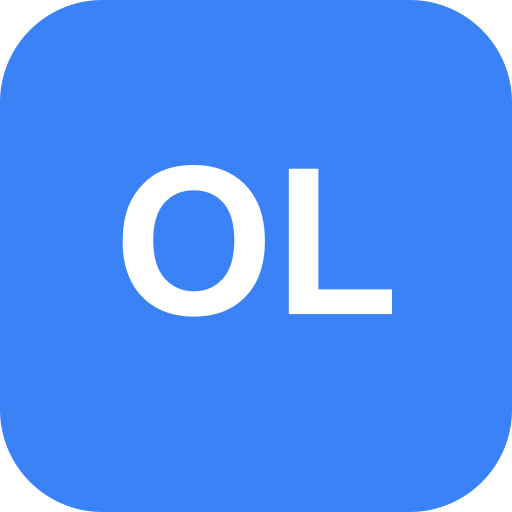
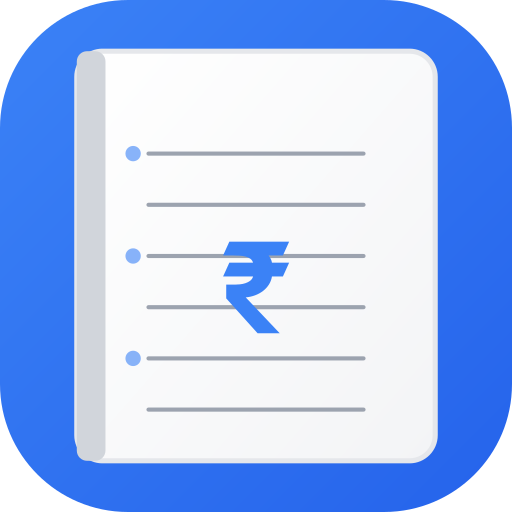
Registeration Issue Fixed

diff --git a/public/sw.js b/public/sw.js
@@ -1,1 +1,1 @@
-if(!self.define){let e,s={};const t=(t,n)=>(t=new URL(t+".js",n).href,s[t]||new Promise(s=>{if("document"in self){const e=document.createElement("script");e.src=t,e.onload=s,document.head.appendChild(e)}else e=t,importScripts(t),s()}).then(()=>{let e=s[t];if(!e)throw new Error(`Module ${t} didn’t register its module`);return e}));self.define=(n,i)=>{const c=e||("document"in self?document.currentScript.src:"")||location.href;if(s[c])return;let a={};const r=e=>t(e,c),b={module:{uri:c},exports:a,require:r};s[c]=Promise.all(n.map(e=>b[e]||r(e))).then(e=>(i(...e),a))}}define(["./workbox-cb477421"],function(e){"use strict";importScripts(),self.skipWaiting(),e.clientsClaim(),e.precacheAndRoute([{url:"/_next/static/SAT_WU-kYaJ-KnYDsm0Db/_buildManifest.js",revision:"9363572769837de22e40f096e0cebed4"},{url:"/_next/static/SAT_WU-kYaJ-KnYDsm0Db/_ssgManifest.js",revision:"b6652df95db52feb4daf4eca35380933"},{url:"/_next/static/chunks/242-dce0abdbf2aea028.js",revision:"dce0abdbf2aea028"},{url:"/_next/static/chunks/3-6325ca9d4e4db34a.js",revision:"6325ca9d4e4db34a"},{url:"/_next/static/chunks/336-276d166d8c18222b.js",revision:"276d166d8c18222b"},{url:"/_next/static/chunks/435-29b99d16889c8517.js",revision:"29b99d16889c8517"},{url:"/_next/static/chunks/4bd1b696-01b4a2ffa8bac205.js",revision:"01b4a2ffa8bac205"},{url:"/_next/static/chunks/50-098a305b7968b2ca.js",revision:"098a305b7968b2ca"},{url:"/_next/static/chunks/500-538c95708a3502e8.js",revision:"538c95708a3502e8"},{url:"/_next/static/chunks/538-880c66d8be1ab218.js",revision:"880c66d8be1ab218"},{url:"/_next/static/chunks/572-efb7cc541d876a47.js",revision:"efb7cc541d876a47"},{url:"/_next/static/chunks/794-643f38030c17f441.js",revision:"643f38030c17f441"},{url:"/_next/static/chunks/899.9de990650a7ba81f.js",revision:"9de990650a7ba81f"},{url:"/_next/static/chunks/921-6d58c88bcb5ef5bf.js",revision:"6d58c88bcb5ef5bf"},{url:"/_next/static/chunks/966.83c76036c0a8ff77.js",revision:"83c76036c0a8ff77"},{url:"/_next/static/chunks/972-6e6986a9fe1a8dc2.js",revision:"6e6986a9fe1a8dc2"},{url:"/_next/static/chunks/app/_global-error/page-400d3f83b07107ed.js",revision:"400d3f83b07107ed"},{url:"/_next/static/chunks/app/_not-found/page-4d01524aee87c0f8.js",revision:"4d01524aee87c0f8"},{url:"/_next/static/chunks/app/api/auth/%5B...nextauth%5D/route-400d3f83b07107ed.js",revision:"400d3f83b07107ed"},{url:"/_next/static/chunks/app/budget/%5Bmonth%5D/page-d1b5701ba0e30078.js",revision:"d1b5701ba0e30078"},{url:"/_next/static/chunks/app/budget/page-400d3f83b07107ed.js",revision:"400d3f83b07107ed"},{url:"/_next/static/chunks/app/invite/%5Btoken%5D/page-f07c38f1007d33ee.js",revision:"f07c38f1007d33ee"},{url:"/_next/static/chunks/app/layout-350b017e358a75c0.js",revision:"350b017e358a75c0"},{url:"/_next/static/chunks/app/login/page-919eade82296405b.js",revision:"919eade82296405b"},{url:"/_next/static/chunks/app/page-ff05113b439023f4.js",revision:"ff05113b439023f4"},{url:"/_next/static/chunks/app/register/page-4ec07f4b7f11f6d2.js",revision:"4ec07f4b7f11f6d2"},{url:"/_next/static/chunks/app/settings/page-3e49641a4b9e8585.js",revision:"3e49641a4b9e8585"},{url:"/_next/static/chunks/app/setup/%5Bmonth%5D/page-67a7b5943ed0e6b4.js",revision:"67a7b5943ed0e6b4"},{url:"/_next/static/chunks/app/templates/page-cac871a95f6da25e.js",revision:"cac871a95f6da25e"},{url:"/_next/static/chunks/app/transaction-log/page-db8d7950346ad556.js",revision:"db8d7950346ad556"},{url:"/_next/static/chunks/framework-3311683cffde0ebf.js",revision:"3311683cffde0ebf"},{url:"/_next/static/chunks/main-app-7c38bf02821fc46f.js",revision:"7c38bf02821fc46f"},{url:"/_next/static/chunks/main-c5867374b1eb6608.js",revision:"c5867374b1eb6608"},{url:"/_next/static/chunks/next/dist/client/components/builtin/app-error-400d3f83b07107ed.js",revision:"400d3f83b07107ed"},{url:"/_next/static/chunks/next/dist/client/components/builtin/forbidden-400d3f83b07107ed.js",revision:"400d3f83b07107ed"},{url:"/_next/static/chunks/next/dist/client/components/builtin/global-error-74d2df4135abe4c6.js",revision:"74d2df4135abe4c6"},{url:"/_next/static/chunks/next/dist/client/components/builtin/not-found-400d3f83b07107ed.js",revision:"400d3f83b07107ed"},{url:"/_next/static/chunks/next/dist/client/components/builtin/unauthorized-400d3f83b07107ed.js",revision:"400d3f83b07107ed"},{url:"/_next/static/chunks/polyfills-42372ed130431b0a.js",revision:"846118c33b2c0e922d7b3a7676f81f6f"},{url:"/_next/static/chunks/webpack-bb09e624c6809f14.js",revision:"bb09e624c6809f14"},{url:"/_next/static/css/6ab474b83b9db718.css",revision:"6ab474b83b9db718"},{url:"/_next/static/media/4cf2300e9c8272f7-s.p.woff2",revision:"18bae71b1e1b2bb25321090a3b563103"},{url:"/_next/static/media/747892c23ea88013-s.woff2",revision:"a0761690ccf4441ace5cec893b82d4ab"},{url:"/_next/static/media/8d697b304b401681-s.woff2",revision:"cc728f6c0adb04da0dfcb0fc436a8ae5"},{url:"/_next/static/media/93f479601ee12b01-s.p.woff2",revision:"da83d5f06d825c5ae65b7cca706cb312"},{url:"/_next/static/media/9610d9e46709d722-s.woff2",revision:"7b7c0ef93df188a852344fc272fc096b"},{url:"/_next/static/media/ba015fad6dcf6784-s.woff2",revision:"8ea4f719af3312a055caf09f34c89a77"},{url:"/icon-192.png",revision:"4438e641b5a0edd46588ca62f64ab422"},{url:"/icon-512.png",revision:"61429b866692864bfb854c8568c11af1"},{url:"/manifest.json",revision:"f92bc61bb9ab5792c70d282fa470f962"}],{ignoreURLParametersMatching:[]}),e.cleanupOutdatedCaches(),e.registerRoute("/",new e.NetworkFirst({cacheName:"start-url",plugins:[{cacheWillUpdate:async({request:e,response:s,event:t,state:n})=>s&&"opaqueredirect"===s.type?new Response(s.body,{status:200,statusText:"OK",headers:s.headers}):s}]}),"GET"),e.registerRoute(/^https?.*/,new e.NetworkFirst({cacheName:"offlineCache",plugins:[new e.ExpirationPlugin({maxEntries:200})]}),"GET")});
+if(!self.define){let e,s={};const t=(t,i)=>(t=new URL(t+".js",i).href,s[t]||new Promise(s=>{if("document"in self){const e=document.createElement("script");e.src=t,e.onload=s,document.head.appendChild(e)}else e=t,importScripts(t),s()}).then(()=>{let e=s[t];if(!e)throw new Error(`Module ${t} didn’t register its module`);return e}));self.define=(i,n)=>{const c=e||("document"in self?document.currentScript.src:"")||location.href;if(s[c])return;let a={};const r=e=>t(e,c),d={module:{uri:c},exports:a,require:r};s[c]=Promise.all(i.map(e=>d[e]||r(e))).then(e=>(n(...e),a))}}define(["./workbox-cb477421"],function(e){"use strict";importScripts(),self.skipWaiting(),e.clientsClaim(),e.precacheAndRoute([{url:"/_next/static/Kqrmwg3Os4_BxyN4wV6Dk/_buildManifest.js",revision:"9363572769837de22e40f096e0cebed4"},{url:"/_next/static/Kqrmwg3Os4_BxyN4wV6Dk/_ssgManifest.js",revision:"b6652df95db52feb4daf4eca35380933"},{url:"/_next/static/chunks/242-dce0abdbf2aea028.js",revision:"dce0abdbf2aea028"},{url:"/_next/static/chunks/3-6325ca9d4e4db34a.js",revision:"6325ca9d4e4db34a"},{url:"/_next/static/chunks/336-276d166d8c18222b.js",revision:"276d166d8c18222b"},{url:"/_next/static/chunks/435-29b99d16889c8517.js",revision:"29b99d16889c8517"},{url:"/_next/static/chunks/4bd1b696-01b4a2ffa8bac205.js",revision:"01b4a2ffa8bac205"},{url:"/_next/static/chunks/50-098a305b7968b2ca.js",revision:"098a305b7968b2ca"},{url:"/_next/static/chunks/500-538c95708a3502e8.js",revision:"538c95708a3502e8"},{url:"/_next/static/chunks/538-880c66d8be1ab218.js",revision:"880c66d8be1ab218"},{url:"/_next/static/chunks/572-efb7cc541d876a47.js",revision:"efb7cc541d876a47"},{url:"/_next/static/chunks/794-643f38030c17f441.js",revision:"643f38030c17f441"},{url:"/_next/static/chunks/899.9de990650a7ba81f.js",revision:"9de990650a7ba81f"},{url:"/_next/static/chunks/921-6d58c88bcb5ef5bf.js",revision:"6d58c88bcb5ef5bf"},{url:"/_next/static/chunks/966.83c76036c0a8ff77.js",revision:"83c76036c0a8ff77"},{url:"/_next/static/chunks/972-6e6986a9fe1a8dc2.js",revision:"6e6986a9fe1a8dc2"},{url:"/_next/static/chunks/app/_global-error/page-400d3f83b07107ed.js",revision:"400d3f83b07107ed"},{url:"/_next/static/chunks/app/_not-found/page-4d01524aee87c0f8.js",revision:"4d01524aee87c0f8"},{url:"/_next/static/chunks/app/api/auth/%5B...nextauth%5D/route-400d3f83b07107ed.js",revision:"400d3f83b07107ed"},{url:"/_next/static/chunks/app/budget/%5Bmonth%5D/page-d1b5701ba0e30078.js",revision:"d1b5701ba0e30078"},{url:"/_next/static/chunks/app/budget/page-400d3f83b07107ed.js",revision:"400d3f83b07107ed"},{url:"/_next/static/chunks/app/invite/%5Btoken%5D/page-f07c38f1007d33ee.js",revision:"f07c38f1007d33ee"},{url:"/_next/static/chunks/app/layout-350b017e358a75c0.js",revision:"350b017e358a75c0"},{url:"/_next/static/chunks/app/login/page-919eade82296405b.js",revision:"919eade82296405b"},{url:"/_next/static/chunks/app/page-ff05113b439023f4.js",revision:"ff05113b439023f4"},{url:"/_next/static/chunks/app/register/page-0c5e454627d1a475.js",revision:"0c5e454627d1a475"},{url:"/_next/static/chunks/app/settings/page-3e49641a4b9e8585.js",revision:"3e49641a4b9e8585"},{url:"/_next/static/chunks/app/setup/%5Bmonth%5D/page-67a7b5943ed0e6b4.js",revision:"67a7b5943ed0e6b4"},{url:"/_next/static/chunks/app/templates/page-cac871a95f6da25e.js",revision:"cac871a95f6da25e"},{url:"/_next/static/chunks/app/transaction-log/page-db8d7950346ad556.js",revision:"db8d7950346ad556"},{url:"/_next/static/chunks/framework-3311683cffde0ebf.js",revision:"3311683cffde0ebf"},{url:"/_next/static/chunks/main-app-7c38bf02821fc46f.js",revision:"7c38bf02821fc46f"},{url:"/_next/static/chunks/main-c5867374b1eb6608.js",revision:"c5867374b1eb6608"},{url:"/_next/static/chunks/next/dist/client/components/builtin/app-error-400d3f83b07107ed.js",revision:"400d3f83b07107ed"},{url:"/_next/static/chunks/next/dist/client/components/builtin/forbidden-400d3f83b07107ed.js",revision:"400d3f83b07107ed"},{url:"/_next/static/chunks/next/dist/client/components/builtin/global-error-74d2df4135abe4c6.js",revision:"74d2df4135abe4c6"},{url:"/_next/static/chunks/next/dist/client/components/builtin/not-found-400d3f83b07107ed.js",revision:"400d3f83b07107ed"},{url:"/_next/static/chunks/next/dist/client/components/builtin/unauthorized-400d3f83b07107ed.js",revision:"400d3f83b07107ed"},{url:"/_next/static/chunks/polyfills-42372ed130431b0a.js",revision:"846118c33b2c0e922d7b3a7676f81f6f"},{url:"/_next/static/chunks/webpack-bb09e624c6809f14.js",revision:"bb09e624c6809f14"},{url:"/_next/static/css/6ab474b83b9db718.css",revision:"6ab474b83b9db718"},{url:"/_next/static/media/4cf2300e9c8272f7-s.p.woff2",revision:"18bae71b1e1b2bb25321090a3b563103"},{url:"/_next/static/media/747892c23ea88013-s.woff2",revision:"a0761690ccf4441ace5cec893b82d4ab"},{url:"/_next/static/media/8d697b304b401681-s.woff2",revision:"cc728f6c0adb04da0dfcb0fc436a8ae5"},{url:"/_next/static/media/93f479601ee12b01-s.p.woff2",revision:"da83d5f06d825c5ae65b7cca706cb312"},{url:"/_next/static/media/9610d9e46709d722-s.woff2",revision:"7b7c0ef93df188a852344fc272fc096b"},{url:"/_next/static/media/ba015fad6dcf6784-s.woff2",revision:"8ea4f719af3312a055caf09f34c89a77"},{url:"/favicon.png",revision:"1cf9e1006d471aefaa391901668d6a8c"},{url:"/icon-192.png",revision:"29a6b6d7c64a3daf6524bd4aebbcc7dd"},{url:"/icon-512.png",revision:"6030817cfaf6099f8d16a3ab3714e353"},{url:"/manifest.json",revision:"f92bc61bb9ab5792c70d282fa470f962"}],{ignoreURLParametersMatching:[]}),e.cleanupOutdatedCaches(),e.registerRoute("/",new e.NetworkFirst({cacheName:"start-url",plugins:[{cacheWillUpdate:async({request:e,response:s,event:t,state:i})=>s&&"opaqueredirect"===s.type?new Response(s.body,{status:200,statusText:"OK",headers:s.headers}):s}]}),"GET"),e.registerRoute(/^https?.*/,new e.NetworkFirst({cacheName:"offlineCache",plugins:[new e.ExpirationPlugin({maxEntries:200})]}),"GET")});

diff --git a/scripts/create-icons.js b/scripts/create-icons.js
@@ -13,12 +13,61 @@ if (!fs.existsSync(publicDir)) {
   fs.mkdirSync(publicDir, { recursive: true });
 }
 
-// Create a simple blue icon with "OL" text
+// Create a professional ledger/book icon
 async function createIcon(size, filename) {
+  const padding = size * 0.15;
+  const bookWidth = size * 0.7;
+  const bookHeight = size * 0.8;
+  const bookX = (size - bookWidth) / 2;
+  const bookY = (size - bookHeight) / 2;
+  const lineSpacing = bookHeight / 8;
+  const lineStartX = bookX + bookWidth * 0.2;
+  const lineEndX = bookX + bookWidth * 0.8;
+  
   const svg = `
     <svg width="${size}" height="${size}" xmlns="http://www.w3.org/2000/svg">
-      <rect width="${size}" height="${size}" fill="#3b82f6" rx="${size * 0.2}"/>
-      <text x="50%" y="50%" font-family="Arial, sans-serif" font-size="${size * 0.4}" font-weight="bold" fill="white" text-anchor="middle" dominant-baseline="middle">OL</text>
+      <!-- Background with gradient -->
+      <defs>
+        <linearGradient id="bgGradient" x1="0%" y1="0%" x2="100%" y2="100%">
+          <stop offset="0%" style="stop-color:#3b82f6;stop-opacity:1" />
+          <stop offset="100%" style="stop-color:#2563eb;stop-opacity:1" />
+        </linearGradient>
+        <linearGradient id="bookGradient" x1="0%" y1="0%" x2="100%" y2="100%">
+          <stop offset="0%" style="stop-color:#ffffff;stop-opacity:1" />
+          <stop offset="100%" style="stop-color:#f3f4f6;stop-opacity:1" />
+        </linearGradient>
+      </defs>
+      
+      <!-- Rounded background -->
+      <rect width="${size}" height="${size}" fill="url(#bgGradient)" rx="${size * 0.25}"/>
+      
+      <!-- Book/Ledger shape -->
+      <rect x="${bookX}" y="${bookY}" width="${bookWidth}" height="${bookHeight}" 
+            fill="url(#bookGradient)" rx="${size * 0.05}" stroke="#e5e7eb" stroke-width="${size * 0.01}"/>
+      
+      <!-- Book binding (left edge) -->
+      <rect x="${bookX}" y="${bookY}" width="${bookWidth * 0.08}" height="${bookHeight}" 
+            fill="#d1d5db" rx="${size * 0.02}"/>
+      
+      <!-- Ledger lines -->
+      ${Array.from({ length: 6 }, (_, i) => {
+        const y = bookY + bookHeight * 0.25 + (i * lineSpacing);
+        return `<line x1="${lineStartX}" y1="${y}" x2="${lineEndX}" y2="${y}" 
+                      stroke="#9ca3af" stroke-width="${size * 0.008}" stroke-linecap="round"/>`;
+      }).join('\n      ')}
+      
+      <!-- Dollar sign or currency symbol in center -->
+      <text x="${size / 2}" y="${bookY + bookHeight * 0.6}" 
+            font-family="Arial, sans-serif" font-size="${size * 0.25}" 
+            font-weight="bold" fill="#3b82f6" text-anchor="middle" 
+            dominant-baseline="middle">₹</text>
+      
+      <!-- Small decorative circles (like bullet points) -->
+      ${Array.from({ length: 3 }, (_, i) => {
+        const y = bookY + bookHeight * 0.25 + (i * lineSpacing * 2);
+        const x = lineStartX - size * 0.03;
+        return `<circle cx="${x}" cy="${y}" r="${size * 0.015}" fill="#3b82f6" opacity="0.6"/>`;
+      }).join('\n      ')}
     </svg>
   `;
 
@@ -29,11 +78,46 @@ async function createIcon(size, filename) {
   console.log(`Created ${filename} (${size}x${size})`);
 }
 
+// Create favicon (16x16, 32x32, 48x48 sizes in one ICO file)
+async function createFavicon() {
+  // Create 32x32 version for favicon
+  const svg = `
+    <svg width="32" height="32" xmlns="http://www.w3.org/2000/svg">
+      <defs>
+        <linearGradient id="bgGrad" x1="0%" y1="0%" x2="100%" y2="100%">
+          <stop offset="0%" style="stop-color:#3b82f6;stop-opacity:1" />
+          <stop offset="100%" style="stop-color:#2563eb;stop-opacity:1" />
+        </linearGradient>
+      </defs>
+      <rect width="32" height="32" fill="url(#bgGrad)" rx="6"/>
+      <rect x="5" y="4" width="22" height="24" fill="#ffffff" rx="2"/>
+      <rect x="5" y="4" width="2" height="24" fill="#d1d5db" rx="1"/>
+      <line x1="9" y1="10" x2="23" y2="10" stroke="#9ca3af" stroke-width="0.5"/>
+      <line x1="9" y1="13" x2="23" y2="13" stroke="#9ca3af" stroke-width="0.5"/>
+      <line x1="9" y1="16" x2="23" y2="16" stroke="#9ca3af" stroke-width="0.5"/>
+      <text x="16" y="22" font-family="Arial" font-size="8" font-weight="bold" fill="#3b82f6" text-anchor="middle" dominant-baseline="middle">₹</text>
+    </svg>
+  `;
+
+  await sharp(Buffer.from(svg))
+    .resize(32, 32)
+    .png()
+    .toFile(path.join(publicDir, 'favicon.png'));
+  
+  // Also create as .ico (though .png works fine for modern browsers)
+  console.log('Created favicon.png (32x32)');
+}
+
 async function main() {
   try {
     await createIcon(192, 'icon-192.png');
     await createIcon(512, 'icon-512.png');
-    console.log('✅ Icons created successfully!');
+    await createFavicon();
+    console.log('✅ All icons created successfully!');
+    console.log('\n📱 Icon files:');
+    console.log('   - icon-192.png (192x192) - PWA icon');
+    console.log('   - icon-512.png (512x512) - PWA icon');
+    console.log('   - favicon.png (32x32) - Browser favicon');
   } catch (error) {
     console.error('❌ Error creating icons:', error.message);
     console.log('\n📝 Alternative: Create icons manually:');

diff --git a/src/lib/actions/auth.ts b/src/lib/actions/auth.ts
@@ -13,11 +13,14 @@ export async function registerUser(data: z.infer<typeof registerSchema>) {
   try {
     const validated = registerSchema.parse(data);
 
+    // Normalize email to lowercase
+    const normalizedEmail = validated.email.toLowerCase().trim();
+
     // Check if user already exists
     const existingUser = await db
       .select()
       .from(users)
-      .where(eq(users.email, validated.email))
+      .where(eq(users.email, normalizedEmail))
       .limit(1);
 
     if (existingUser.length > 0) {
@@ -28,60 +31,96 @@ export async function registerUser(data: z.infer<typeof registerSchema>) {
 
     // Create household and user in a transaction
     const result = await db.transaction(async (tx) => {
-    // Create household (createdBy will be set after user creation)
-    const [household] = await tx
-      .insert(households)
-      .values({
-        name: validated.householdName,
-        createdBy: null, // Will be updated after user creation
-      })
-      .returning();
+      // Create household (createdBy will be set after user creation)
+      const [household] = await tx
+        .insert(households)
+        .values({
+          name: validated.householdName.trim(),
+          createdBy: null, // Will be updated after user creation
+        })
+        .returning();
 
-    // Create user
-    const [user] = await tx
-      .insert(users)
-      .values({
-        email: validated.email,
-        passwordHash,
-        householdId: household.id,
-        role: "admin",
-      })
-      .returning();
+      if (!household) {
+        throw new Error("Failed to create household");
+      }
 
-    // Update household createdBy
-    await tx
-      .update(households)
-      .set({ createdBy: user.id })
-      .where(eq(households.id, household.id));
+      // Create user
+      const [user] = await tx
+        .insert(users)
+        .values({
+          email: normalizedEmail,
+          passwordHash,
+          householdId: household.id,
+          role: "admin",
+        })
+        .returning();
 
-    // Create default payment accounts
-    await tx.insert(paymentAccounts).values([
-      {
-        householdId: household.id,
-        name: "Primary Account",
-      },
-      {
-        householdId: household.id,
-        name: "Shared Allocation",
-      },
-    ]);
+      if (!user) {
+        throw new Error("Failed to create user");
+      }
 
-    return { user, household };
+      // Update household createdBy
+      await tx
+        .update(households)
+        .set({ createdBy: user.id })
+        .where(eq(households.id, household.id));
+
+      // Create default payment accounts
+      await tx.insert(paymentAccounts).values([
+        {
+          householdId: household.id,
+          name: "Primary Account",
+        },
+        {
+          householdId: household.id,
+          name: "Shared Allocation",
+        },
+      ]);
+
+      return { user, household };
     });
 
     return { success: true, userId: result.user.id };
   } catch (error) {
     console.error("Registration error:", error);
-    if (error instanceof z.ZodError) {
-      return { error: "Invalid form data. Please check your inputs." };
-    }
+    
+    // Log full error details for debugging
     if (error instanceof Error) {
-      // Check for database constraint errors
-      if (error.message.includes("not null") || error.message.includes("constraint")) {
+      console.error("Error name:", error.name);
+      console.error("Error message:", error.message);
+      console.error("Error stack:", error.stack);
+      
+      // Check for specific database errors
+      const errorMessage = error.message.toLowerCase();
+      
+      if (error instanceof z.ZodError) {
+        return { error: "Invalid form data. Please check your inputs." };
+      }
+      
+      // Foreign key constraint errors
+      if (errorMessage.includes("foreign key") || errorMessage.includes("violates foreign key constraint")) {
+        return { error: "Database constraint error. Please try again or contact support." };
+      }
+      
+      // Unique constraint errors
+      if (errorMessage.includes("unique") || errorMessage.includes("duplicate key")) {
+        return { error: "A user with this email already exists." };
+      }
+      
+      // Not null constraint errors
+      if (errorMessage.includes("not null") || errorMessage.includes("null value")) {
         return { error: "Database error. Please ensure all required fields are provided." };
       }
+      
+      // Connection errors
+      if (errorMessage.includes("connection") || errorMessage.includes("timeout") || errorMessage.includes("connect")) {
+        return { error: "Database connection error. Please try again." };
+      }
+      
+      // Return the actual error message for debugging (in production, you might want to hide this)
       return { error: error.message || "An error occurred during registration" };
     }
+    
     return { error: "An unexpected error occurred. Please try again." };
   }
 }

diff --git a/src/app/layout.tsx b/src/app/layout.tsx
@@ -55,6 +55,7 @@ export default function RootLayout({
     <html lang="en">
       <head>
         <link rel="manifest" href="/manifest.json" />
+        <link rel="icon" href="/favicon.png" type="image/png" />
         <link rel="apple-touch-icon" href="/icon-192.png" />
         <meta name="theme-color" content="#3b82f6" />
         <meta name="apple-mobile-web-app-capable" content="yes" />
